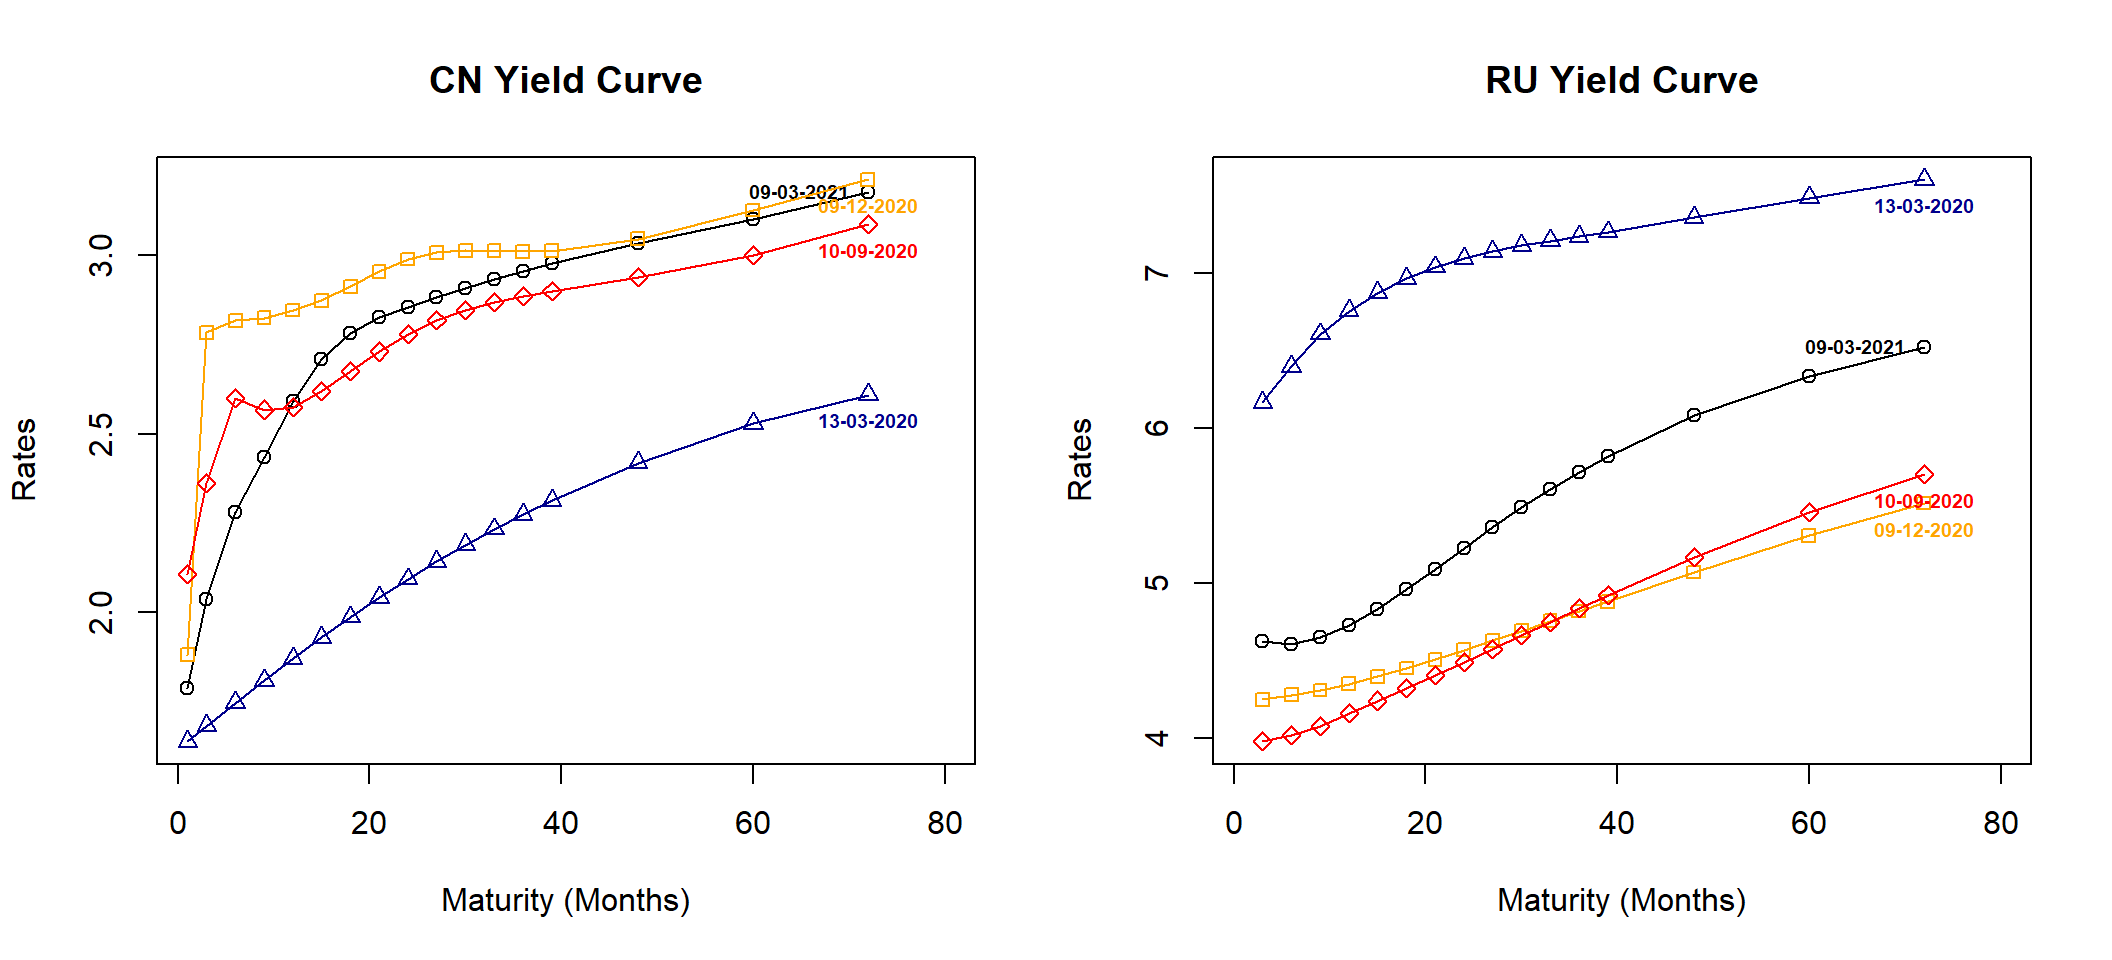
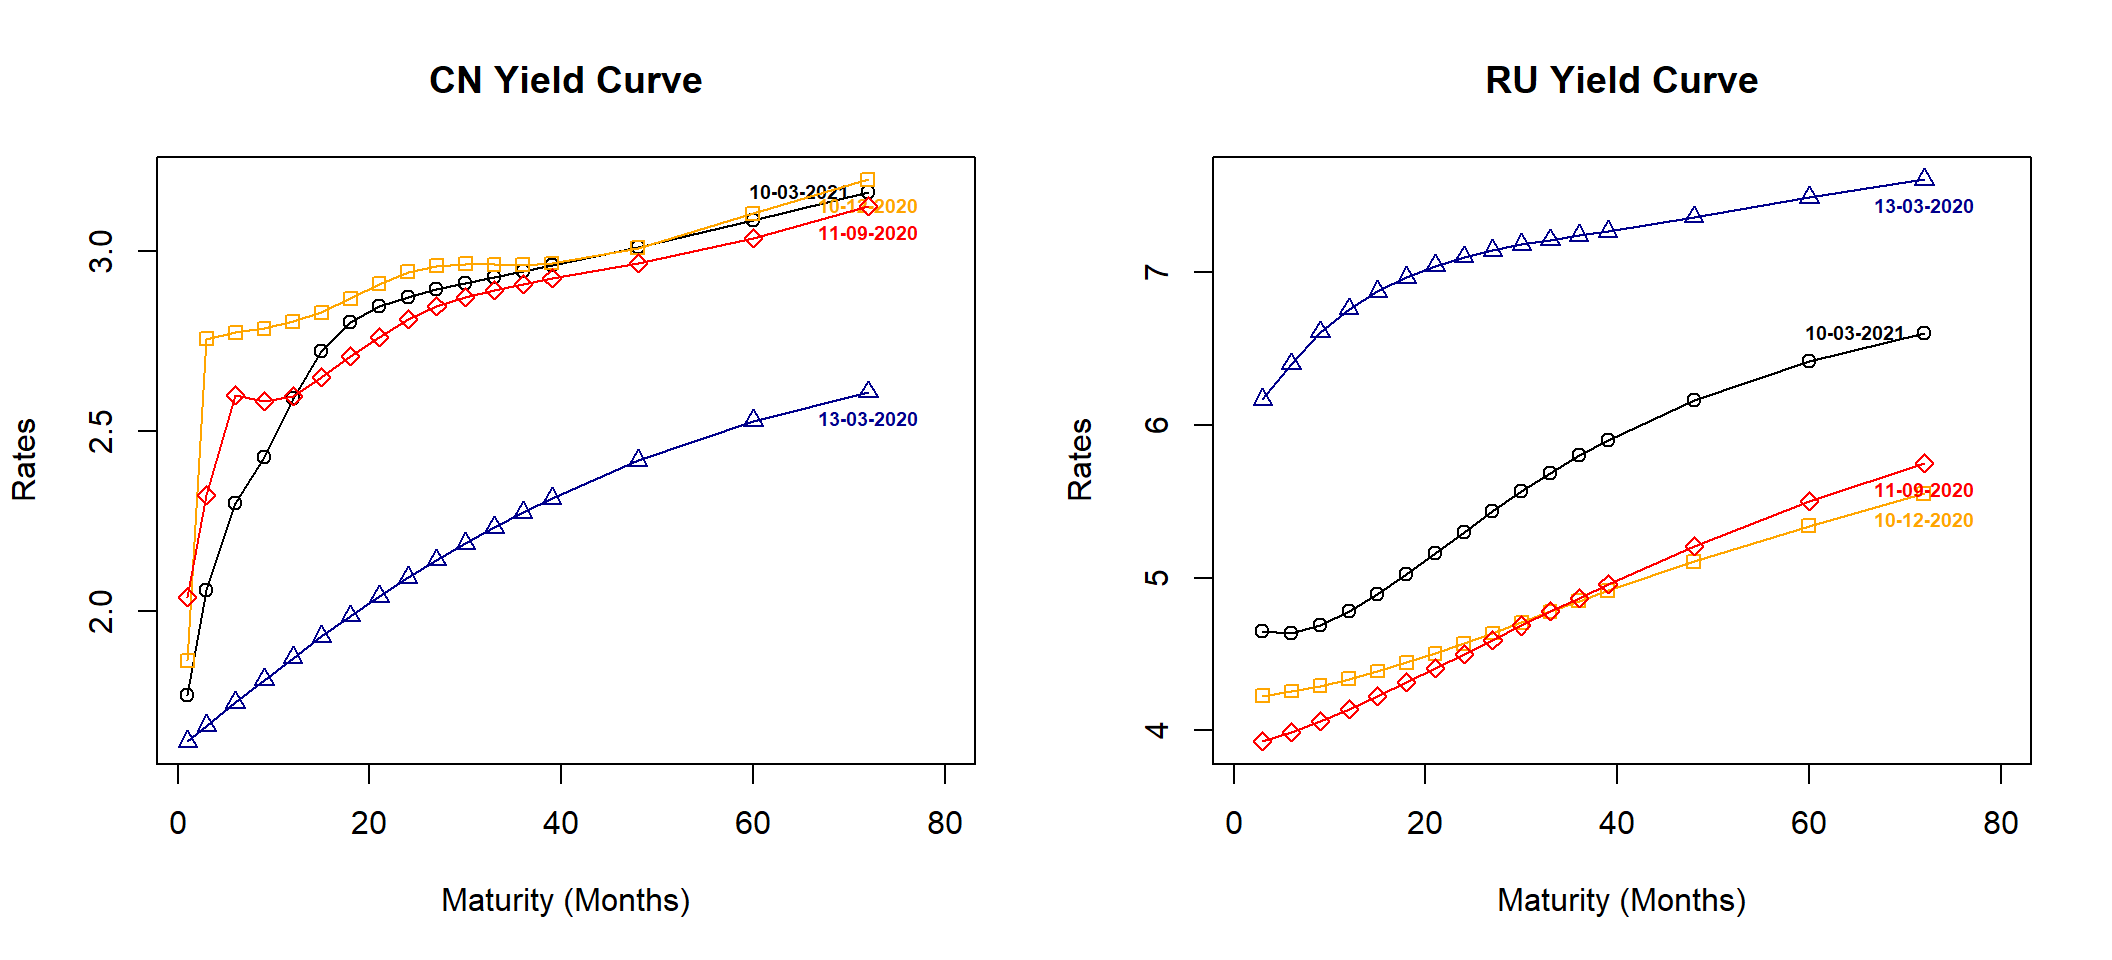
Add files via upload

diff --git a/index.html b/index.html
@@ -10,7 +10,7 @@
 
 
 
-<meta name="date" content="2021-09-03" />
+<meta name="date" content="2021-10-03" />
 
 <title>Yield Curves of BR, US, CN, and RU</title>
 
@@ -327,7 +327,7 @@ $(document).ready(function () {
 
 
 <h1 class="title toc-ignore">Yield Curves of BR, US, CN, and RU</h1>
-<h4 class="date">09/03/2021</h4>
+<h4 class="date">10/03/2021</h4>
 
 </div>
 
